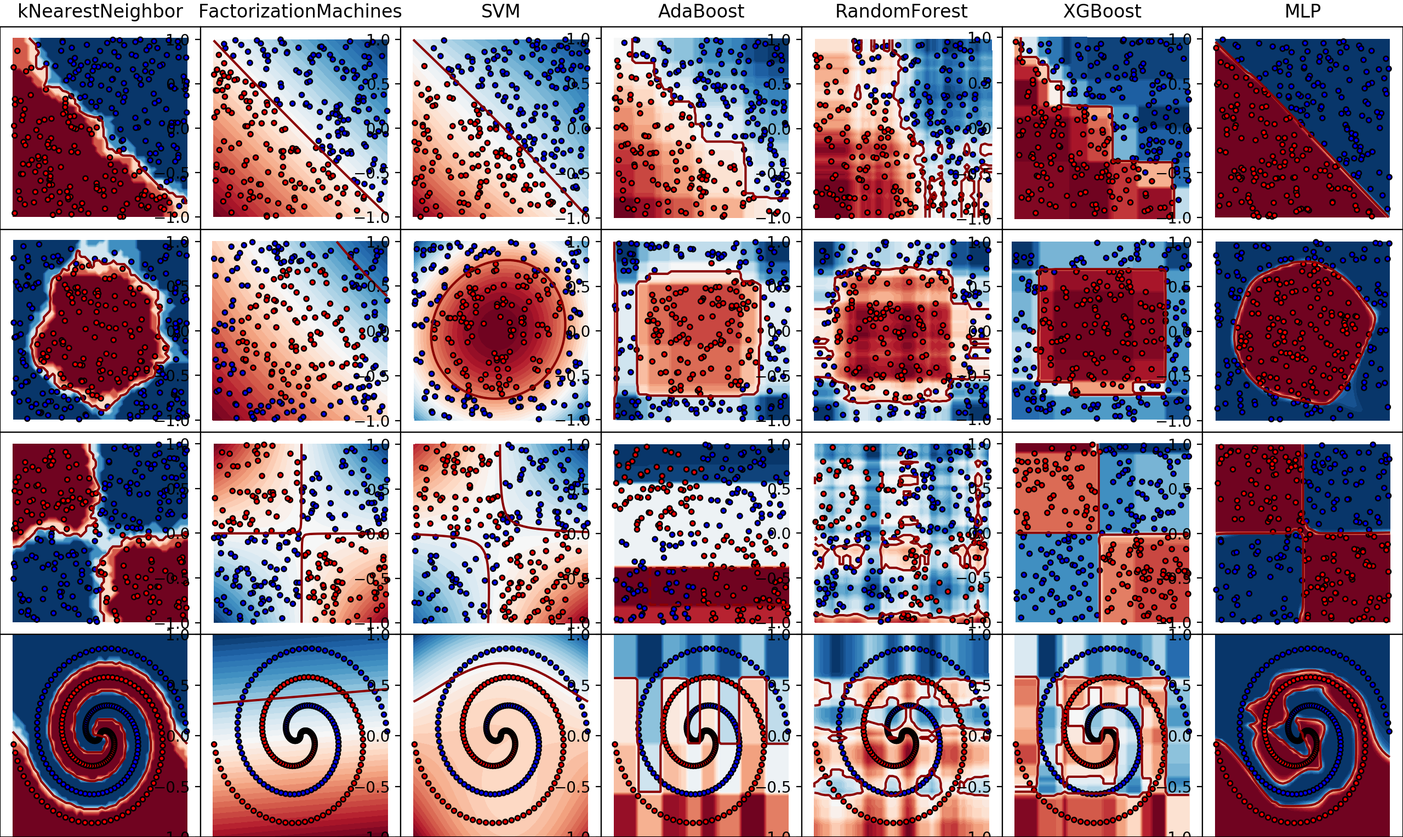
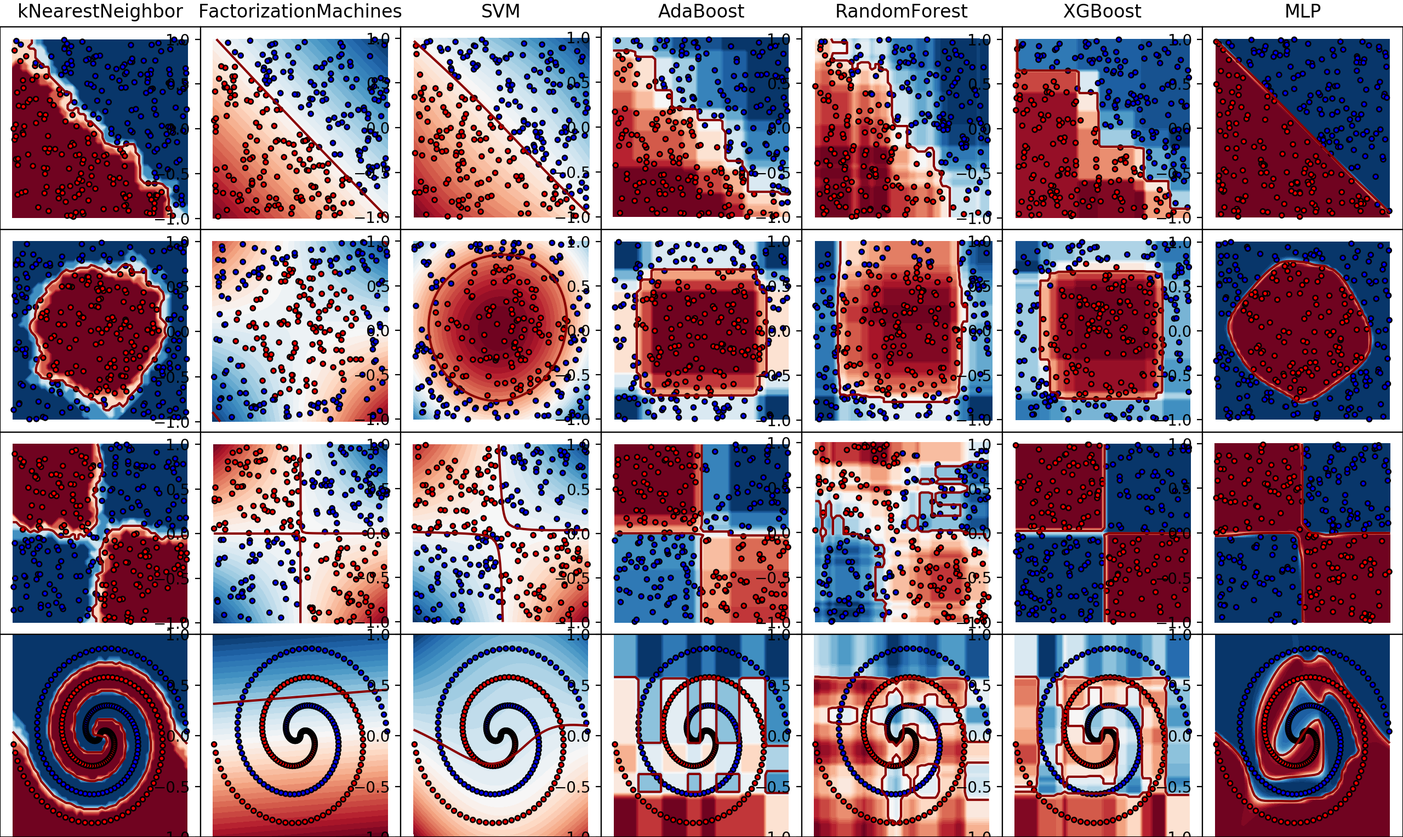
add weights to decision tree

diff --git a/decision_tree.py b/decision_tree.py
@@ -3,18 +3,23 @@ from sklearn.datasets import load_iris
 # TO DO: add sample weights
 
 
-def entropy(data):
-	(values, counts) = np.unique(data[:,-1],return_counts=True)
-	p = counts/len(data)
+def weighted_histo(y, w):
+	y_unique = np.unique(y)
+	weighted_sum = np.zeros(len(y_unique))
+	for i in range(len(y_unique)):
+		weighted_sum[i] = w[y==y_unique[i]].sum()
+	return weighted_sum / w.sum()
+
+def entropy(y, w):
+	p = weighted_histo(y, w)
 	return -np.sum(np.multiply(p, np.log2(p+1e-8)))
 
-def impurity(data):	
-	(values, counts) = np.unique(data[:,-1],return_counts=True)
-	p = counts/len(data)
-	return 1 - np.sum(np.square(p))
+def impurity(y, w):
+	return 1 - np.sum(np.square(weighted_histo(y, w)))
 
-def variance(data):
-	return data[:,-1].var()
+def variance(y, w):
+	mu = y.dot(w) / len(y)
+	return np.square(y - mu).dot(w) / sum(w)
 
 
 class DecisionTree(object):
@@ -26,10 +31,9 @@ class DecisionTree(object):
 		self.depth = depth
 		self.gain_threshold = 1e-8
 
-	def split_gain(self, p_score, l_child, r_child):
-		data_num = len(l_child)+len(r_child)
-		return p_score - self.metric(l_child)*len(l_child)/data_num\
-			- self.metric(r_child)*len(r_child)/data_num
+	def split_gain(self, p_score, l_y, r_y, l_w, r_w):
+		total_w = sum(l_w) + sum(r_w)
+		return p_score - (self.metric(l_y, l_w)*sum(l_w) + self.metric(r_y, r_w)*sum(r_w)) / total_w
 
 	def print_tree(self, node=None, depth=0):
 		if node is None:
@@ -41,46 +45,51 @@ class DecisionTree(object):
 		else:
 			print('{}{}'.format(depth*' ', node))
 
-	def gen_leaf(self, data):
+	def gen_leaf(self, y, w):
 		if not self.regression:
-			(values, counts) = np.unique(data[:,-1],return_counts=True)
-			node = dict(zip(values, counts))
-			node['label'] = values[np.argmax(counts)]
+			weighted_sum = np.zeros(len(self.labels))
+			for i in range(len(self.labels)):
+				weighted_sum[i] = w[y==self.labels[i]].sum()
+			node = dict(zip(self.labels, weighted_sum))
+			node['label'] = self.labels[np.argmax(weighted_sum)]
 		else:
-			node = {'label': data[:,-1].mean()}
+			node = {'label': y.dot(w) / sum(w)}
 		return node
 
-	def split(self, data, depth, n_data):
-		if(depth >= self.depth): return self.gen_leaf(data)
-		p_score = self.metric(data)
-		max_gain, f_id, value, splt_l, splt_r = self.gain_threshold, -1, 0, None, None
+	def split(self, x, y, w, depth):
+		if(depth >= self.depth): return self.gen_leaf(y, w)
+		p_score = self.metric(y, w)
+		max_gain, f_id, value = self.gain_threshold, -1, 0, 
+		splt_l_x, splt_r_x, splt_l_y, splt_r_y, splt_l_w, splt_r_w = None, None, None, None, None, None
 		for f in self.feature_set:
-			split_values = np.unique(data[:,f].round(decimals=4))
+			split_values = np.unique(x[:,f].round(decimals=4))
 			for split_value in split_values:
-				l_child = data[data[:,f]<split_value]
-				r_child = data[data[:,f]>=split_value]
-				if(len(l_child)*len(r_child)==0):
+				l_idx, r_idx = x[:,f]<split_value, x[:,f]>=split_value
+				l_x, l_y, l_w = x[l_idx], y[l_idx], w[l_idx]
+				r_x, r_y, r_w = x[r_idx], y[r_idx], w[r_idx]
+				if(len(l_x)*len(r_x)==0):
 					continue
-				gain = self.split_gain(p_score, l_child, r_child)
+				gain = self.split_gain(p_score, l_y, r_y, l_w, r_w)
 				if gain > max_gain:
-					max_gain = gain
-					f_id = f
-					value = split_value
-					splt_l, splt_r = l_child, r_child
+					max_gain, f_id, value = gain, f, split_value
+					splt_l_x, splt_l_y, splt_l_w = l_x, l_y, l_w
+					splt_r_x, splt_r_y, splt_r_w = r_x, r_y, r_w
 		if f_id != -1:
-			self.importance[f_id] += max_gain * data.shape[0] / n_data
-			return {'f_id': f_id,
-					'value': value,
-					'left': self.split(splt_l, depth+1, n_data),
-					'right': self.split(splt_r, depth+1, n_data)
-				   }
-		else: return self.gen_leaf(data)
+			self.importance[f_id] += max_gain * sum(w)
+			return {
+				'f_id': f_id,
+				'value': value,
+				'left': self.split(splt_l_x, splt_l_y, splt_l_w, depth+1),
+				'right': self.split(splt_r_x, splt_r_y, splt_r_w, depth+1)
+			}
+		else: return self.gen_leaf(y, w)
 
-	def fit(self, x, y, feature_set=None):
+	def fit(self, x, y, w=None, feature_set=None):
 		self.labels = np.unique(y)
 		self.feature_set = np.arange(x.shape[1]) if feature_set is None else feature_set
 		self.importance = np.zeros(x.shape[1])
-		self.tree = self.split(np.c_[x, y], 0, len(x))
+		self.tree = self.split(x, y, np.ones(x.shape[0]) if w is None else w, 0)
+		self.importance /= len(x)
 
 	def predict(self, x):
 		return np.array([self.predict_sample(xi) for xi in x])
@@ -100,15 +109,12 @@ class DecisionTree(object):
 
 def main():
 	data = load_iris()
-	x = data.data
-	y = data.target
-
 	test_ratio = 0.3
-	test_split = np.random.uniform(0, 1, len(x))
-	train_x = x[test_split >= test_ratio]
-	test_x = x[test_split < test_ratio]
-	train_y = y[test_split >= test_ratio]
-	test_y = y[test_split < test_ratio]
+	test_split = np.random.uniform(0, 1, len(data.data))
+	train_x = data.data[test_split >= test_ratio]
+	test_x = data.data[test_split < test_ratio]
+	train_y = data.target[test_split >= test_ratio]
+	test_y = data.target[test_split < test_ratio]
 
 	dt = DecisionTree(metric_type='Gini impurity', depth=4)
 	dt.fit(train_x, train_y)

diff --git a/adaboost.py b/adaboost.py
@@ -1,41 +1,10 @@
 import numpy as np
 from sklearn.datasets import load_breast_cancer
-
-
-class DecisionStump(object):
-	def __init__(self):
-		self.feature = None
-		self.value = None
-		self.l_value = None
-		self.r_value = None
-
-	def fit(self, x, y, w):
-		min_err = np.float("inf")
-		for f in range(x.shape[1]):
-			split_values = np.unique(x[:,f].round(decimals=4))
-			for split_value in split_values:
-				l_value, r_value, err = self.split(x, y, w, f, split_value)
-				if err < min_err:
-					min_err = err
-					self.l_value, self.r_value = l_value, r_value
-					self.feature, self.value = f, split_value
-		#print(self.feature, self.value, self.l_value, self.r_value, w)
-
-	def split(self, x, y, w, feature, value):
-		f_vec = x[:, feature]
-		l_value = np.sign(y[f_vec<value].sum())
-		r_value = np.sign(y[f_vec>=value].sum())
-		pred = (f_vec<value)*l_value + (f_vec>=value)*r_value
-		error = np.abs(pred-y).dot(w.T)
-		return l_value, r_value, error
-
-	def predict(self, x):
-		f_vec = x[:, self.feature]
-		return (f_vec<self.value)*self.l_value + (f_vec>=self.value)*self.r_value
+from decision_tree import DecisionTree
 
 
 class AdaBoost(object):
-	def __init__(self, esti_num=20):
+	def __init__(self, esti_num=10):
 		self.esti_num = esti_num
 		self.estimators = []
 		self.alphas = []
@@ -46,7 +15,7 @@ class AdaBoost(object):
 		eps = 1e-16
 		prediction = np.zeros(n_data)
 		for i in range(self.esti_num):
-			self.estimators.append(DecisionStump())
+			self.estimators.append(DecisionTree(metric_type='Gini impurity', depth=2))
 			self.estimators[i].fit(x, y, w)
 			pred_i = self.estimators[i].predict(x)
 			error_i = (pred_i!=y).dot(w.T)

diff --git a/xgboost.py b/xgboost.py
@@ -18,14 +18,14 @@ class XGBoostRegressionTree(DecisionTree):
 		super(XGBoostRegressionTree, self).__init__(metric_type="Gini impurity", depth=max_depth, regression=True)
 		self.metric = self.score
 
-	def gen_leaf(self, data):
-		return {'label': data[:,-1].sum() / (data.shape[0] + self.lambd)}
+	def gen_leaf(self, y, w):
+		return {'label': y.dot(w) / (sum(w) + self.lambd)}
 
-	def score(self, data):
-		return np.square(data[:,-1].sum()) / (data.shape[0] + self.lambd)
+	def score(self, y, w):
+		return np.square(y.dot(w)) / (sum(w) + self.lambd)
 
-	def split_gain(self, p_score, l_child, r_child):
-		return (self.metric(l_child) + self.metric(r_child) - p_score) / 2 - self.gamma
+	def split_gain(self, p_score, l_y, r_y, l_w, r_w):
+		return (self.metric(l_y, l_w) + self.metric(r_y, r_w) - p_score) / 2 - self.gamma
 
 # importance for each feature
 class XGBoost(object):

diff --git a/decision_boundary_vis.py b/decision_boundary_vis.py
@@ -49,8 +49,8 @@ def main():
 		(kNearestNeighbor, {'k': 5}),
 		(FactorizationMachines, {'learning_rate': 1, 'embedding_dim': 1}),
 		(SVM, {}),
-		(AdaBoost, {'esti_num': 50}),
-		(RandomForest, {'tree_num': 50, 'max_depth': 4}),
+		(AdaBoost, {'esti_num': 10}),
+		(RandomForest, {'tree_num': 20, 'max_depth': 3}),
 		(XGBoost, {'tree_num': 20, 'max_depth': 3}),
 		(MLP, {'act_type': 'Tanh', 'opt_type': 'Adam', 'layers': [2, 8, 7, 2], 'epochs': 200, 'learning_rate': 0.5, 'lmbda': 1e-4})
 	]

diff --git a/random_forest.py b/random_forest.py
@@ -13,7 +13,7 @@ class RandomForest(object):
 
 	def fit(self, x, y):
 		feat_num = x.shape[1]
-		n_feat = int(np.sqrt(feat_num))
+		n_feat = int(np.ceil(np.sqrt(feat_num)))
 		data_num = x.shape[0]
 		n_sample = data_num//5
 		self.labels = np.unique(y)
